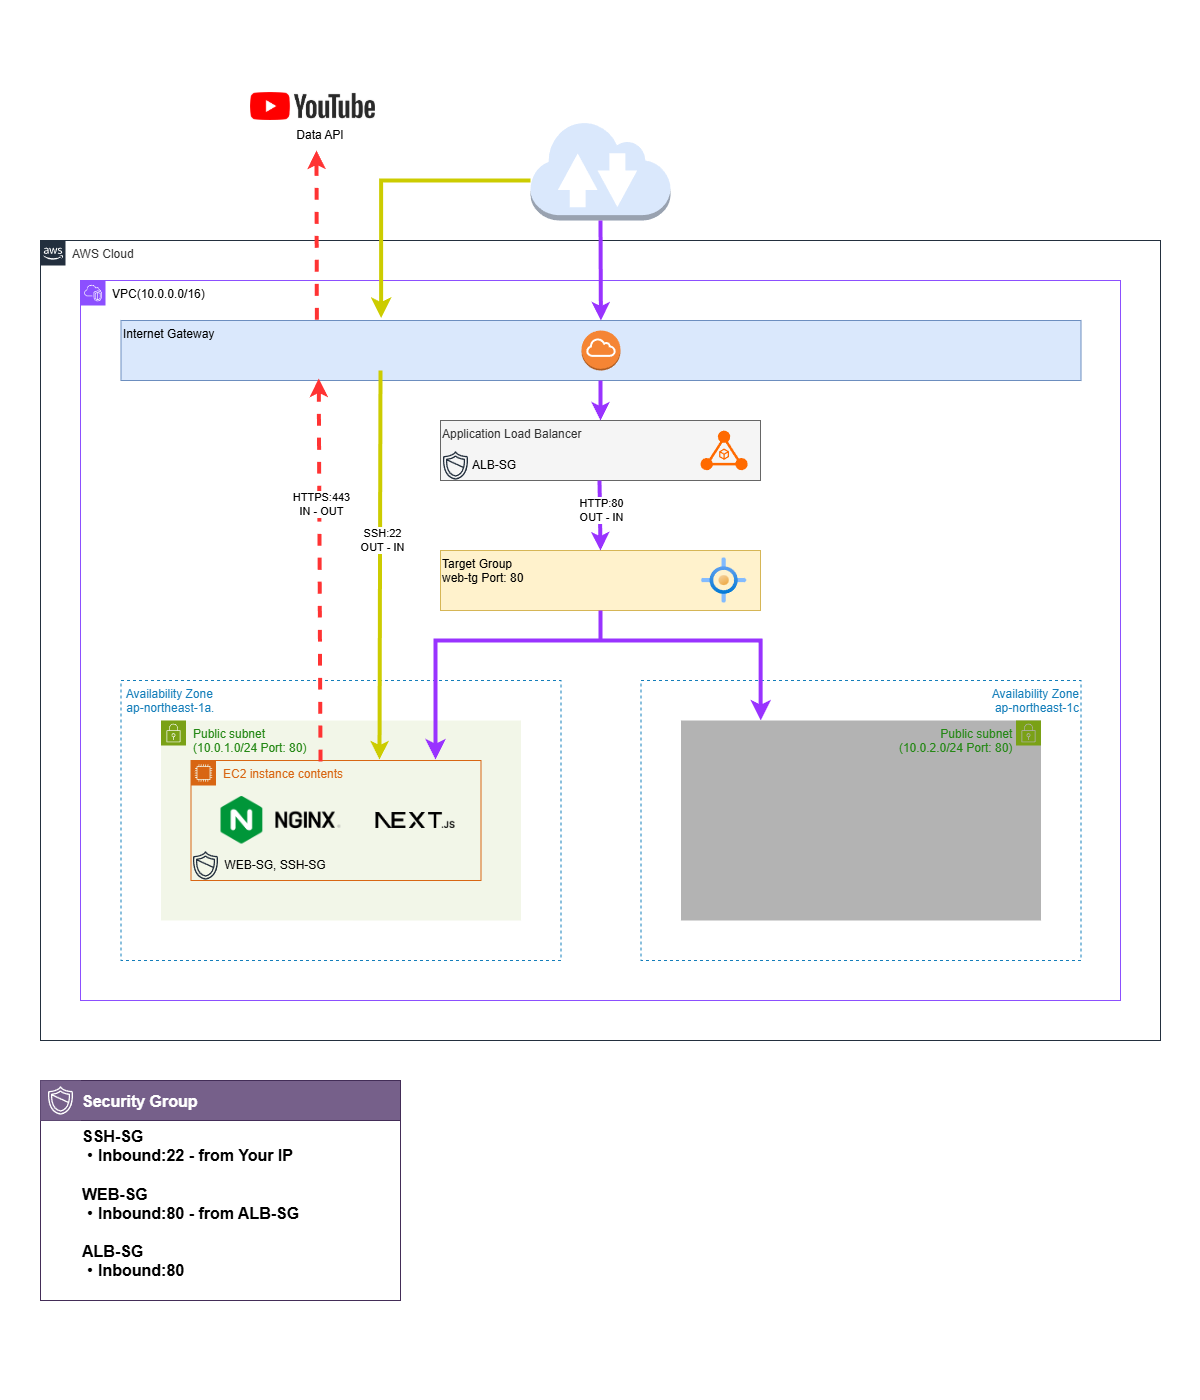
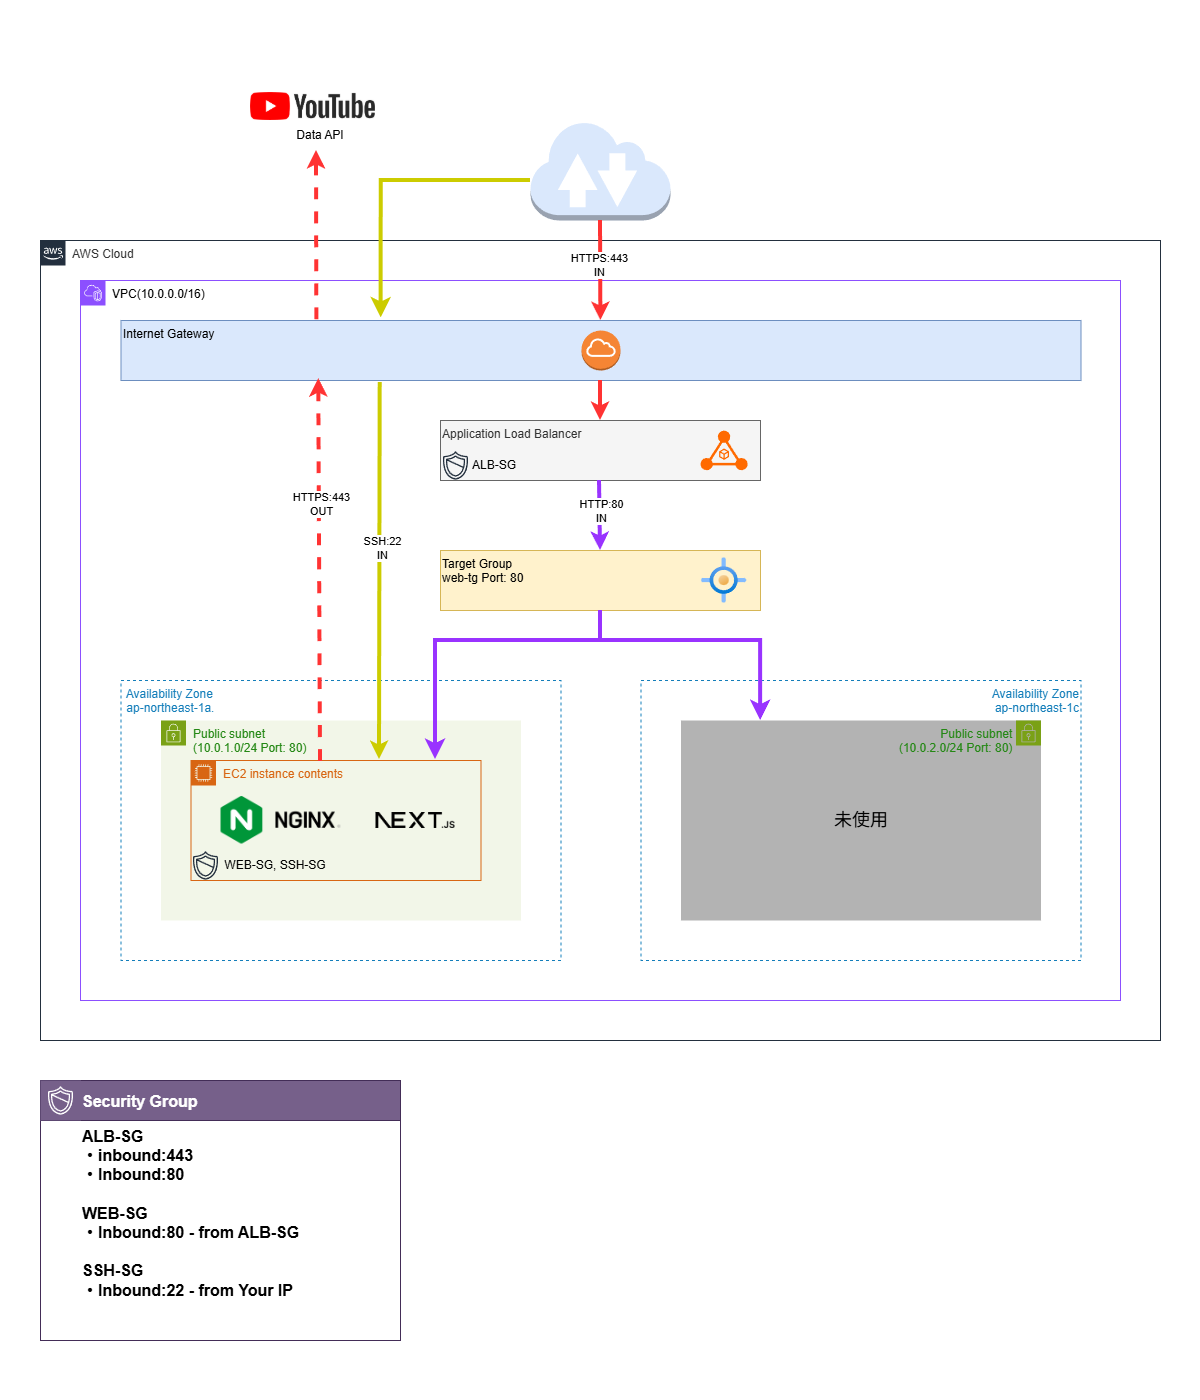
up

diff --git a/README.md b/README.md
@@ -5,7 +5,7 @@
 Terraform を用いてAWS上にWEB基盤を構築する学習・ポートフォリオ用リポジトリ。
 ALB経由でEC2上のNginx/Node.jsアプリへリクエストを転送する。
 
-http://web-alb-1534830055.ap-northeast-1.elb.amazonaws.com<br>
+https://playbass.uk/<br>
 ※検証用途のため、不要時はterraform destroyすることから、稼働時のみの有効リンク
 
 
@@ -28,15 +28,15 @@ http://web-alb-1534830055.ap-northeast-1.elb.amazonaws.com<br>
 - Route Table
 - Security Group × 3
 - Key Pair
+- Route53
 
-### OS/Middleware
+### OS/MW
 - Ubuntu 22.04 LTS
 - Nginx
 - Node.js (Next.js)
 
-## アーキテクチャ
 
-### ネットワーク構成
+## ネットワーク構成
 - マルチAZ構成（ap-northeast-1a/1c）
 - ALB経由でのみHTTPアクセス可能
 - SSH接続は特定IPのみ許可
@@ -54,7 +54,8 @@ http://web-alb-1534830055.ap-northeast-1.elb.amazonaws.com<br>
     - destroyした時の再構築を容易に
 
 ### セキュリティ
-- ALB経由のみHTTPアクセス可能
+- ALB経由のみHTTPS/HTTPアクセス可能
+- HTTPアクセスはALBでHTTPSへリダイレクト
 - SSH接続は特定IPに限定
 
 ## 開発の流れ
